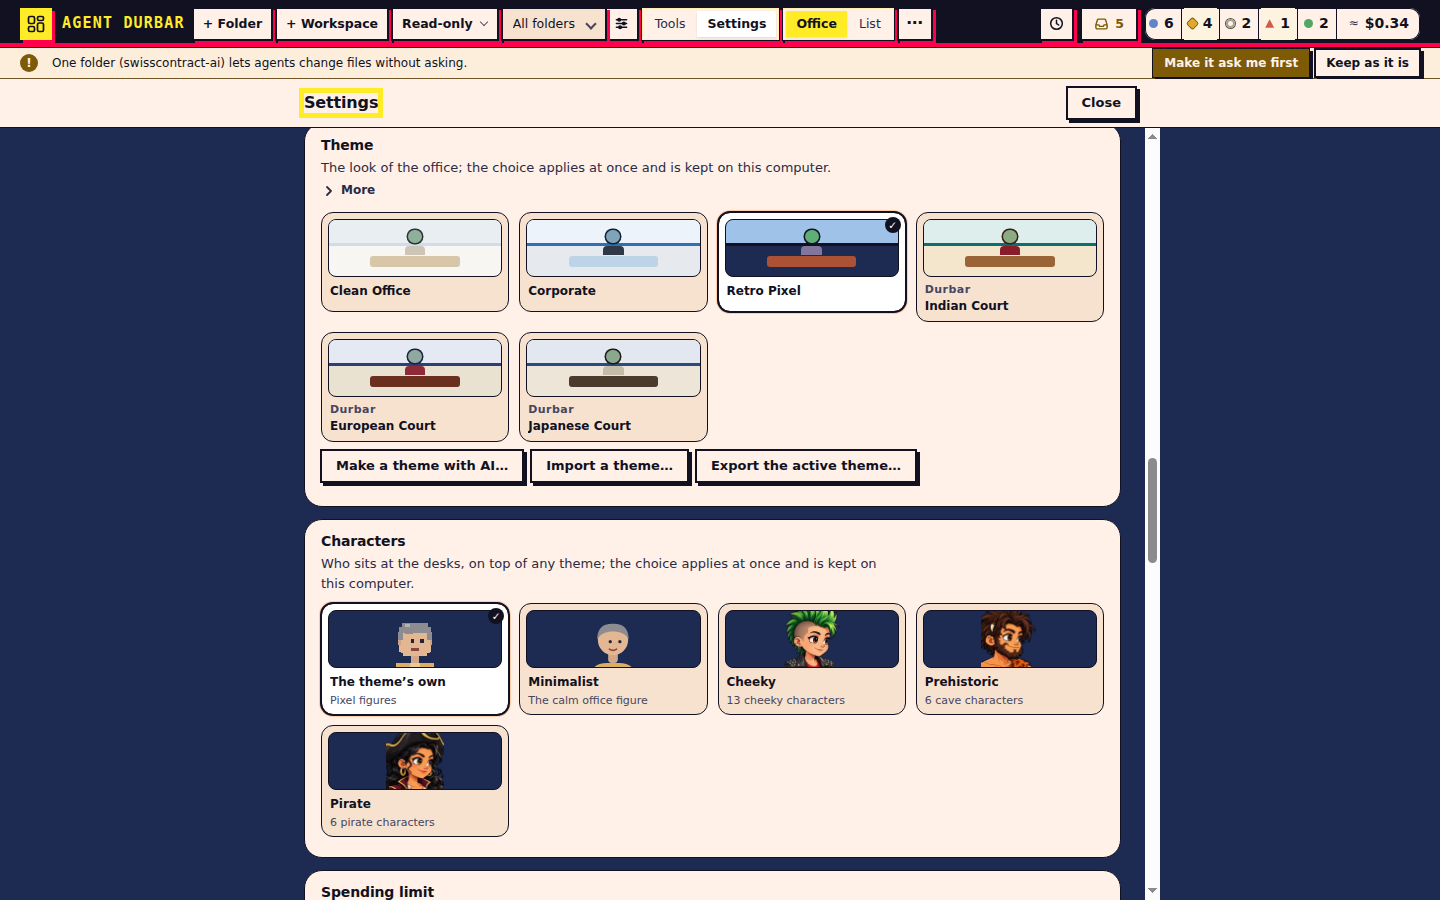
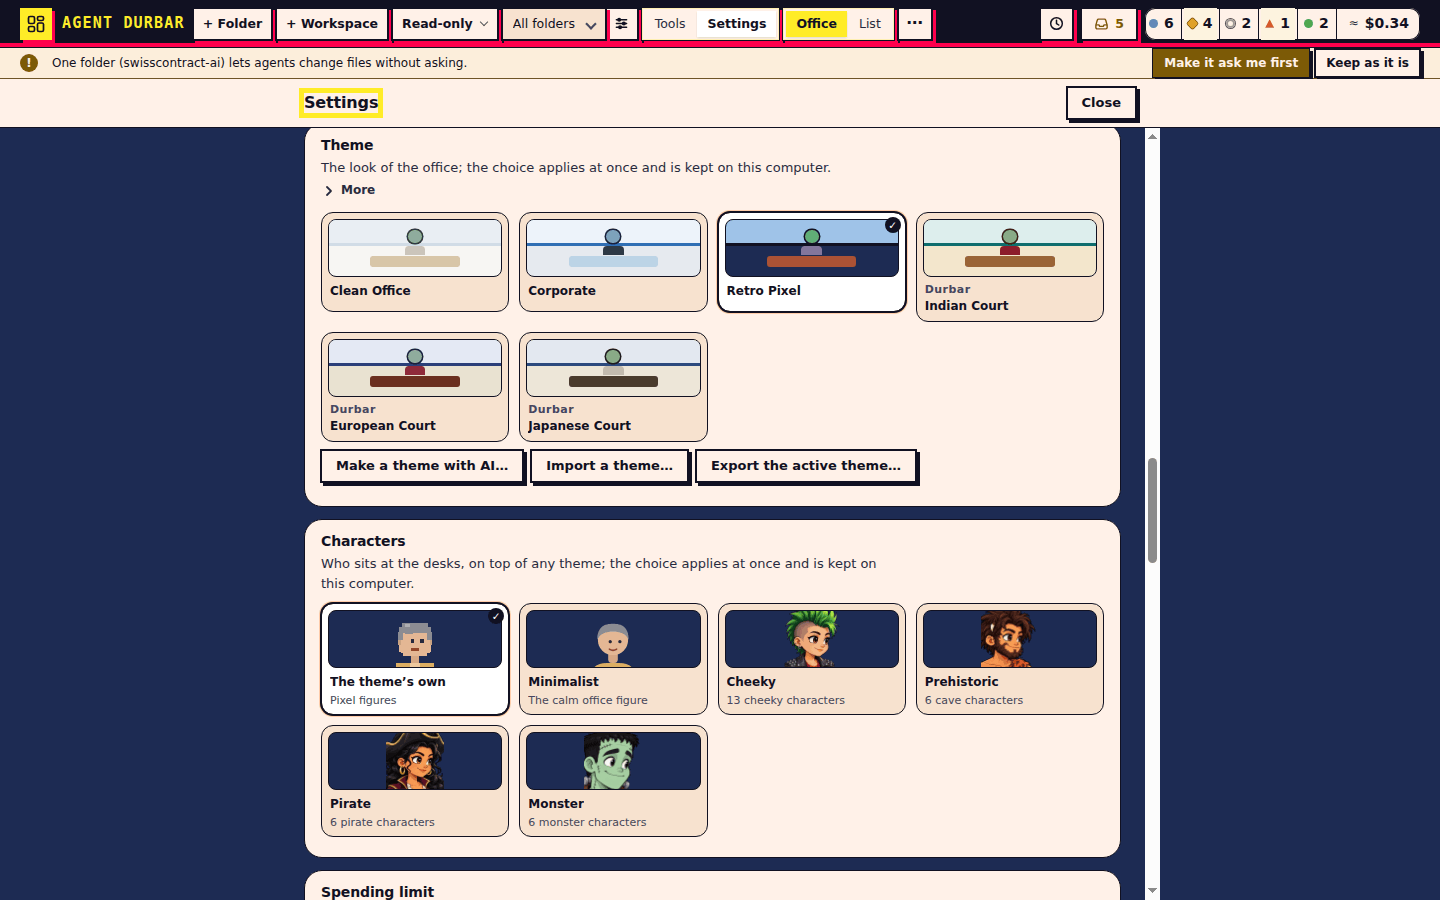
077 FR-075: README and themes docs name the Monster Crew; Settings screenshots retaken

Changed region(s): [[0.3438, 0.7778, 0.5, 0.9333], [0.25, 0.8089, 0.3125, 0.8711]]

diff --git a/docs/themes.md b/docs/themes.md
@@ -9,7 +9,7 @@ Settings has two choices, both applied live without a restart: **Theme** (colour
 - **Corporate:** a navy bar, white rooms with an accent edge, square corners.
 - **Retro Pixel:** a dark arcade page with pixel characters at CRT desks.
 - **Durbar · Indian / European / Japanese:** three royal courts, each with its own frames, colours and court place names.
-- **Characters** (spec 077): **The theme's own** (the default: the calm office figure in Clean Office, suits in Corporate, pixel people in Retro Pixel, court figures in the three courts), **Minimalist** (the calm office figure on any theme), **Cheeky** (experimental): a playful desk and 13 young, cheeky, office-safe characters, **Prehistoric**: the same desk with 6 friendly cave people, or **Pirate**: the same desk with 6 pirates (a captain, an eyepatch sailor, a hook pirate, a cook, a privateer and a cabin boy). Each session gets one at random, among those the office uses least, kept per session; a picture shows it working, waiting or resting. If a picture is missing, the plain figure is drawn. Each choice has a small preview in Settings. Cheeky Crew used to be a theme: if you had it, Durbar switches you once to Clean Office with Characters = Cheeky (the characters stay; the warm background and desk colours were the old theme's). Checked on the simulator only.
+- **Characters** (spec 077): **The theme's own** (the default: the calm office figure in Clean Office, suits in Corporate, pixel people in Retro Pixel, court figures in the three courts), **Minimalist** (the calm office figure on any theme), **Cheeky** (experimental): a playful desk and 13 young, cheeky, office-safe characters, **Prehistoric**: the same desk with 6 friendly cave people, **Pirate**: the same desk with 6 pirates (a captain, an eyepatch sailor, a hook pirate, a cook, a privateer and a cabin boy), or **Monster**: the same desk with 6 friendly monsters (Frankenstein, a ghost, a mummy, a sea creature, a vampire and a werewolf). Each session gets one at random, among those the office uses least, kept per session; a picture shows it working, waiting or resting. If a picture is missing, the plain figure is drawn. Each choice has a small preview in Settings. Cheeky Crew used to be a theme: if you had it, Durbar switches you once to Clean Office with Characters = Cheeky (the characters stay; the warm background and desk colours were the old theme's). Checked on the simulator only.
 - **Make a theme with AI:** describe a look ("a pirate ship at night"), or pick one of the ideas, and Claude Code, Codex or Copilot designs a light or dark theme: colours, a style, place names (short enough for a lobby tile) and art for the people, furniture, room walls, windows and floors, and the lobby. Durbar keeps only safe values, cleans the art like an imported pack, and checks that text stays readable (also on each room's colour) and that the brand colour shows on lobby icons and buttons; the AI gets up to 3 passes to fix what fails. Try it on the whole app before you save it. One theme costs about a cent on Claude (haiku); Copilot spends AI credits from your plan (shown with the result): about 0.25 AI credits per pass on a free plan, checked on 2026-10-20.
 - **Your own themes:** a folder with a `manifest.json` (colours, fonts, corner radii, shadows, the people's clothes and hair colours, a UI style and a scene kit from fixed lists, small SVG art including the desk's cup and laptop, place names), imported and exported in Settings. A theme is data only: no scripts and no CSS. Fonts are installed system fonts from an allow-list (a theme never downloads a font or loads a font file), sizes and spacing stay the app's so the office always fits, SVG art is rebuilt from allowed shapes, a value that is merely unusable falls back to the default and a text colour that would be hard to read is adjusted just enough (the theme stays light or dark), with a note in Settings, and a pack with markup or CSS in a value is refused with a message (spec 070).
 

diff --git a/README.md b/README.md
@@ -85,7 +85,7 @@ All `npm run` commands, the repository layout and how we work (spec-driven with 
 
 Agent Durbar is by **Three Feathers**. Key contributors: [vikramgorla](https://github.com/vikramgorla), [fjcabello](https://github.com/fjcabello) and [rubenlupi](https://github.com/rubenlupi) (GitHub handles are used as the names). The names live in [`src/shared/about.ts`](src/shared/about.ts) and are shown in the OS About panel and in Settings > About.
 
-The Cheeky, Prehistoric and Pirate Crew pictures (`src/renderer/crew/art/`) were made by Paco with ChatGPT image generation, and Paco did the final pass; [`ASSETS.md`](src/renderer/crew/art/ASSETS.md) gives the tool and date of each (spec 077). The app id is `io.github.three-feathers.agentdurbar` since 2026-10-16; a build from before then is a separate app to the OS.
+The Cheeky, Prehistoric, Pirate and Monster Crew pictures (`src/renderer/crew/art/`) were made by Paco with ChatGPT image generation, and Paco did the final pass; [`ASSETS.md`](src/renderer/crew/art/ASSETS.md) gives the tool and date of each (spec 077). The app id is `io.github.three-feathers.agentdurbar` since 2026-10-16; a build from before then is a separate app to the OS.
 
 The Real office pictures (`src/renderer/realoffice/art/`) were made with Codex image generation on Vikram's plan and approved by Vikram, MIT like the code; [`ASSETS.md`](src/renderer/realoffice/art/ASSETS.md) gives each sheet's tool, date and prompt (spec 097).
 
